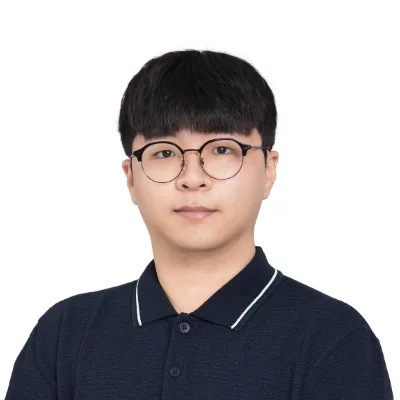
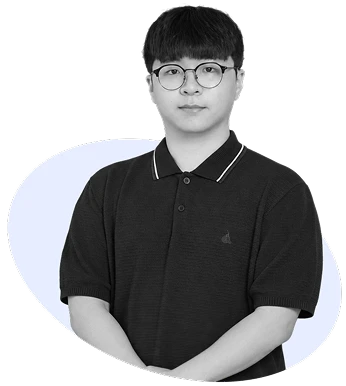
fix: 전문가 초청 강연 연사 사진을 흑백 이미지로 교체하고 grayscale 처리 제거 (#263)

diff --git a/src/components/main/InsideSection.tsx b/src/components/main/InsideSection.tsx
@@ -260,7 +260,7 @@ function CompanyMedia({ activity }: { activity: IntroductionActivity | undefined
 }
 
 // 연사 사진은 얼굴 중심 정사각형으로 잘라 둔 로컬 파일을 이름으로 찾아 쓴다(API 원본은 비율이 제각각이라 원형에서 얼굴이 잘림).
-// 로컬 파일이 없는 새 연사는 API 사진을 쓴다. 시안의 흑백 톤은 CSS로만 처리한다
+// 로컬 파일이 없는 새 연사는 API 사진을 쓴다. 사진 파일 자체가 흑백이다
 const SPEAKER_PHOTOS: Record<string, string> = {
   윤재영: "yoon-jaeyoung",
   이재현: "lee-jaehyun",
@@ -305,7 +305,7 @@ function SpeakerMedia({ speakers }: { speakers: readonly IntroductionLecture[] }
                     alt=""
                     width={160}
                     height={160}
-                    className="size-[68px] rounded-full bg-[#e5ecff] object-cover ring-4 ring-[#e5ecff] grayscale desktop:size-[154px]"
+                    className="size-[68px] rounded-full bg-[#e5ecff] object-cover ring-4 ring-[#e5ecff] desktop:size-[154px]"
                   />
                 )}
                 <p className="mt-1.5 text-center text-[10px] leading-[14px] font-semibold desktop:mt-3 desktop:text-[13px] desktop:leading-[1.5]">
